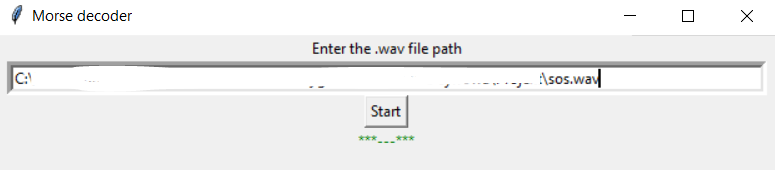
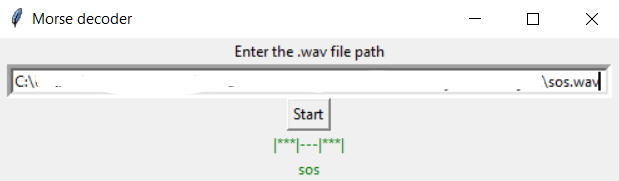
Added Morse Translator
Added translation from morse code to English

diff --git a/Morse_Audio_Decoder.py b/Morse_Audio_Decoder.py
@@ -3,6 +3,10 @@
 # Please use this site to check this program
 # http://www.meridianoutpost.com/resources/etools/calculators/calculator-morse-code.php?
 
+# WORKS ONLY WITH ENGLISH WORDS
+
+# Morse translator taken from
+# https://www.geeksforgeeks.org/morse-code-translator-python/
 
 import matplotlib.pyplot as plt
 import numpy as np
@@ -12,9 +16,13 @@ from scipy.io import wavfile
 from tkinter import *
 import os
 
+morse_code = ["*-", "-***", "-*-*", "-**", "*", "**-*", "--*", "****", "**", "*---", "-*-", "*-**", "--", "-*", "---", "*--*", "--*-", "*-*", "***", "-", "**-", "***-", "*--", "-**-", "-*--", "--**", "*----", "**---", "***--", "****-", "*****", "-****", "--***", "---**", "----*", "-----", "|"]
+alphabetEN = ['a',    'b',    'c',   'd',  'e',   'f',   'g',    'h',   'i',   'j',   'k',    'l',   'm',  'n',  'o',    'p',    'q',   'r',   's',  't',  'u',   'v',    'w',    'x',    'y',    'z',    '1',     '2',     '3',     '4',      '5',     '6',     '7',    '8',     '9',     '0',   ' ']
+alphabetEN_length = len(alphabetEN) - 1
+
 window = Tk()
 window.title("Morse decoder")
-window.geometry('500x110+400+150') # Aplication window size
+window.geometry('500x115+400+150') # Aplication window size
 
 lable_place_of_application = Label(window, text="Enter the .wav file path")
 lable_place_of_application.pack(fill=BOTH)
@@ -23,11 +31,19 @@ user_path = Entry(window, bd = 5)
 user_path.pack(fill=BOTH, padx=8)
 
 label_info = Label(window, text="", fg="black")
+label_word = Label(window, text="", fg="black")
 
 
 def demorse():
     global dot_or_dash
     dot_or_dash = []
+    global spaces
+    spaces = []
+    global spaces_length
+    spaces_length = []
+    global letter_spacing
+
+    waveform = np.array([])
 
     file = user_path.get()
 
@@ -43,7 +59,7 @@ def demorse():
                     process_chunk_size = 600000 - (600000 % frame_rate)
                     #
                     signal = None
-                    waveform = np.array([])
+
 
                     while signal is None or signal.size > 0:
                         signal = np.frombuffer(wav_file.readframes(process_chunk_size), dtype='int16')
@@ -55,13 +71,32 @@ def demorse():
                         )
 
                         waveform = np.concatenate((waveform, sub_waveform))
-                        
+                    #===========================
+                    #
+                    for i in waveform:  # Use wave form to find the spacing between letters
+                        if i <= 15000:
+                            spaces_length.append(len(spaces))
+                            spaces = []
+                        else:
+                            spaces.append("No")
+
+                    #letter_spacing = max(spaces_length)
+                    letter_spacing = int((max(spaces_length) + sum(spaces_length)/len(spaces_length))/3) # handmade expression to detect the spaces between letters
+                    #print(letter_spacing)
+                    #=========================================
+                    # Firstly, we find the spacing interval and the we will add spaces to decoded word
                     #----------------------------------------------- Main decoding part
                     encoded_list = []
                     for i in waveform:  # Use wave form to find the peaks of code
                         if i <= 15000:
                             dot_or_dash.append("Yes")
+                            if len(spaces) >= letter_spacing:
+                                encoded_list.append("|")
+                            else:
+                                pass
+                            spaces = []
                         else:
+                            spaces.append("No")
                             if 2 < len(dot_or_dash) <= 10:
                                 encoded_list.append("*")
                             elif len(dot_or_dash) > 10:
@@ -69,19 +104,51 @@ def demorse():
                             else:
                                 pass
                             dot_or_dash = []
+
+                    encoded_list.append("|")            # add | for symmetry
                     encoded_word = ''.join(encoded_list)
+
                     #print(encoded_word)
                     label_info.configure(text=encoded_word, fg="green")
                     #-----------------------------------------------
+
+                    #~~~~~~~~~~~~~~~~~~~~~~~ Decoding
+                    encrypted = []
+                    encoded_list = encoded_word.split("|")
+                    #print(encoded_list)
+                    encoded_list_length = len(encoded_list)
+                    ''' Here we have SOS priority'''
+                    if (encoded_word == "***---***"):
+                        print("sos")
+                    else:
+                        for j in range(encoded_list_length):
+                           if encoded_list[j] in morse_code:
+                               try:
+                                  ''' Checking every letter in our word and changing it with normal letters '''
+                                  encrypted.append(alphabetEN[morse_code.index(encoded_list[j])])
+                               except:
+                                   pass
+                           else:
+                               pass
+                        ''' Joining the letters of English alphabet into word or sentence '''
+                        encrypted = ''.join(encrypted)
+
+                        label_word.configure(text=encrypted, fg="green")
+                    #~~~~~~~~~~~~~~~~~~~~~~~~~~~~
+
                     #Plot
+                    plt.cla()
                     plt.figure(1)
                     plt.title('Waveform')
                     plt.plot(waveform)
                     plt.show()
+
+
             except:
                 label_info.configure(text="Please check path name", fg="red")
     else:
         label_info.configure(text="Path name can not be empty", fg="red")
+
 
 # declare Button and initialize the lable
 button_demorse = Button(window, text="Start", command=demorse)
@@ -89,6 +156,8 @@ button_demorse.pack()
 
 # Lable for dispalying the info about errors and result
 label_info.pack(fill=BOTH)
+# Lable for displaying decoded word
+label_word.pack(fill=BOTH)
 
 window.mainloop()
 
